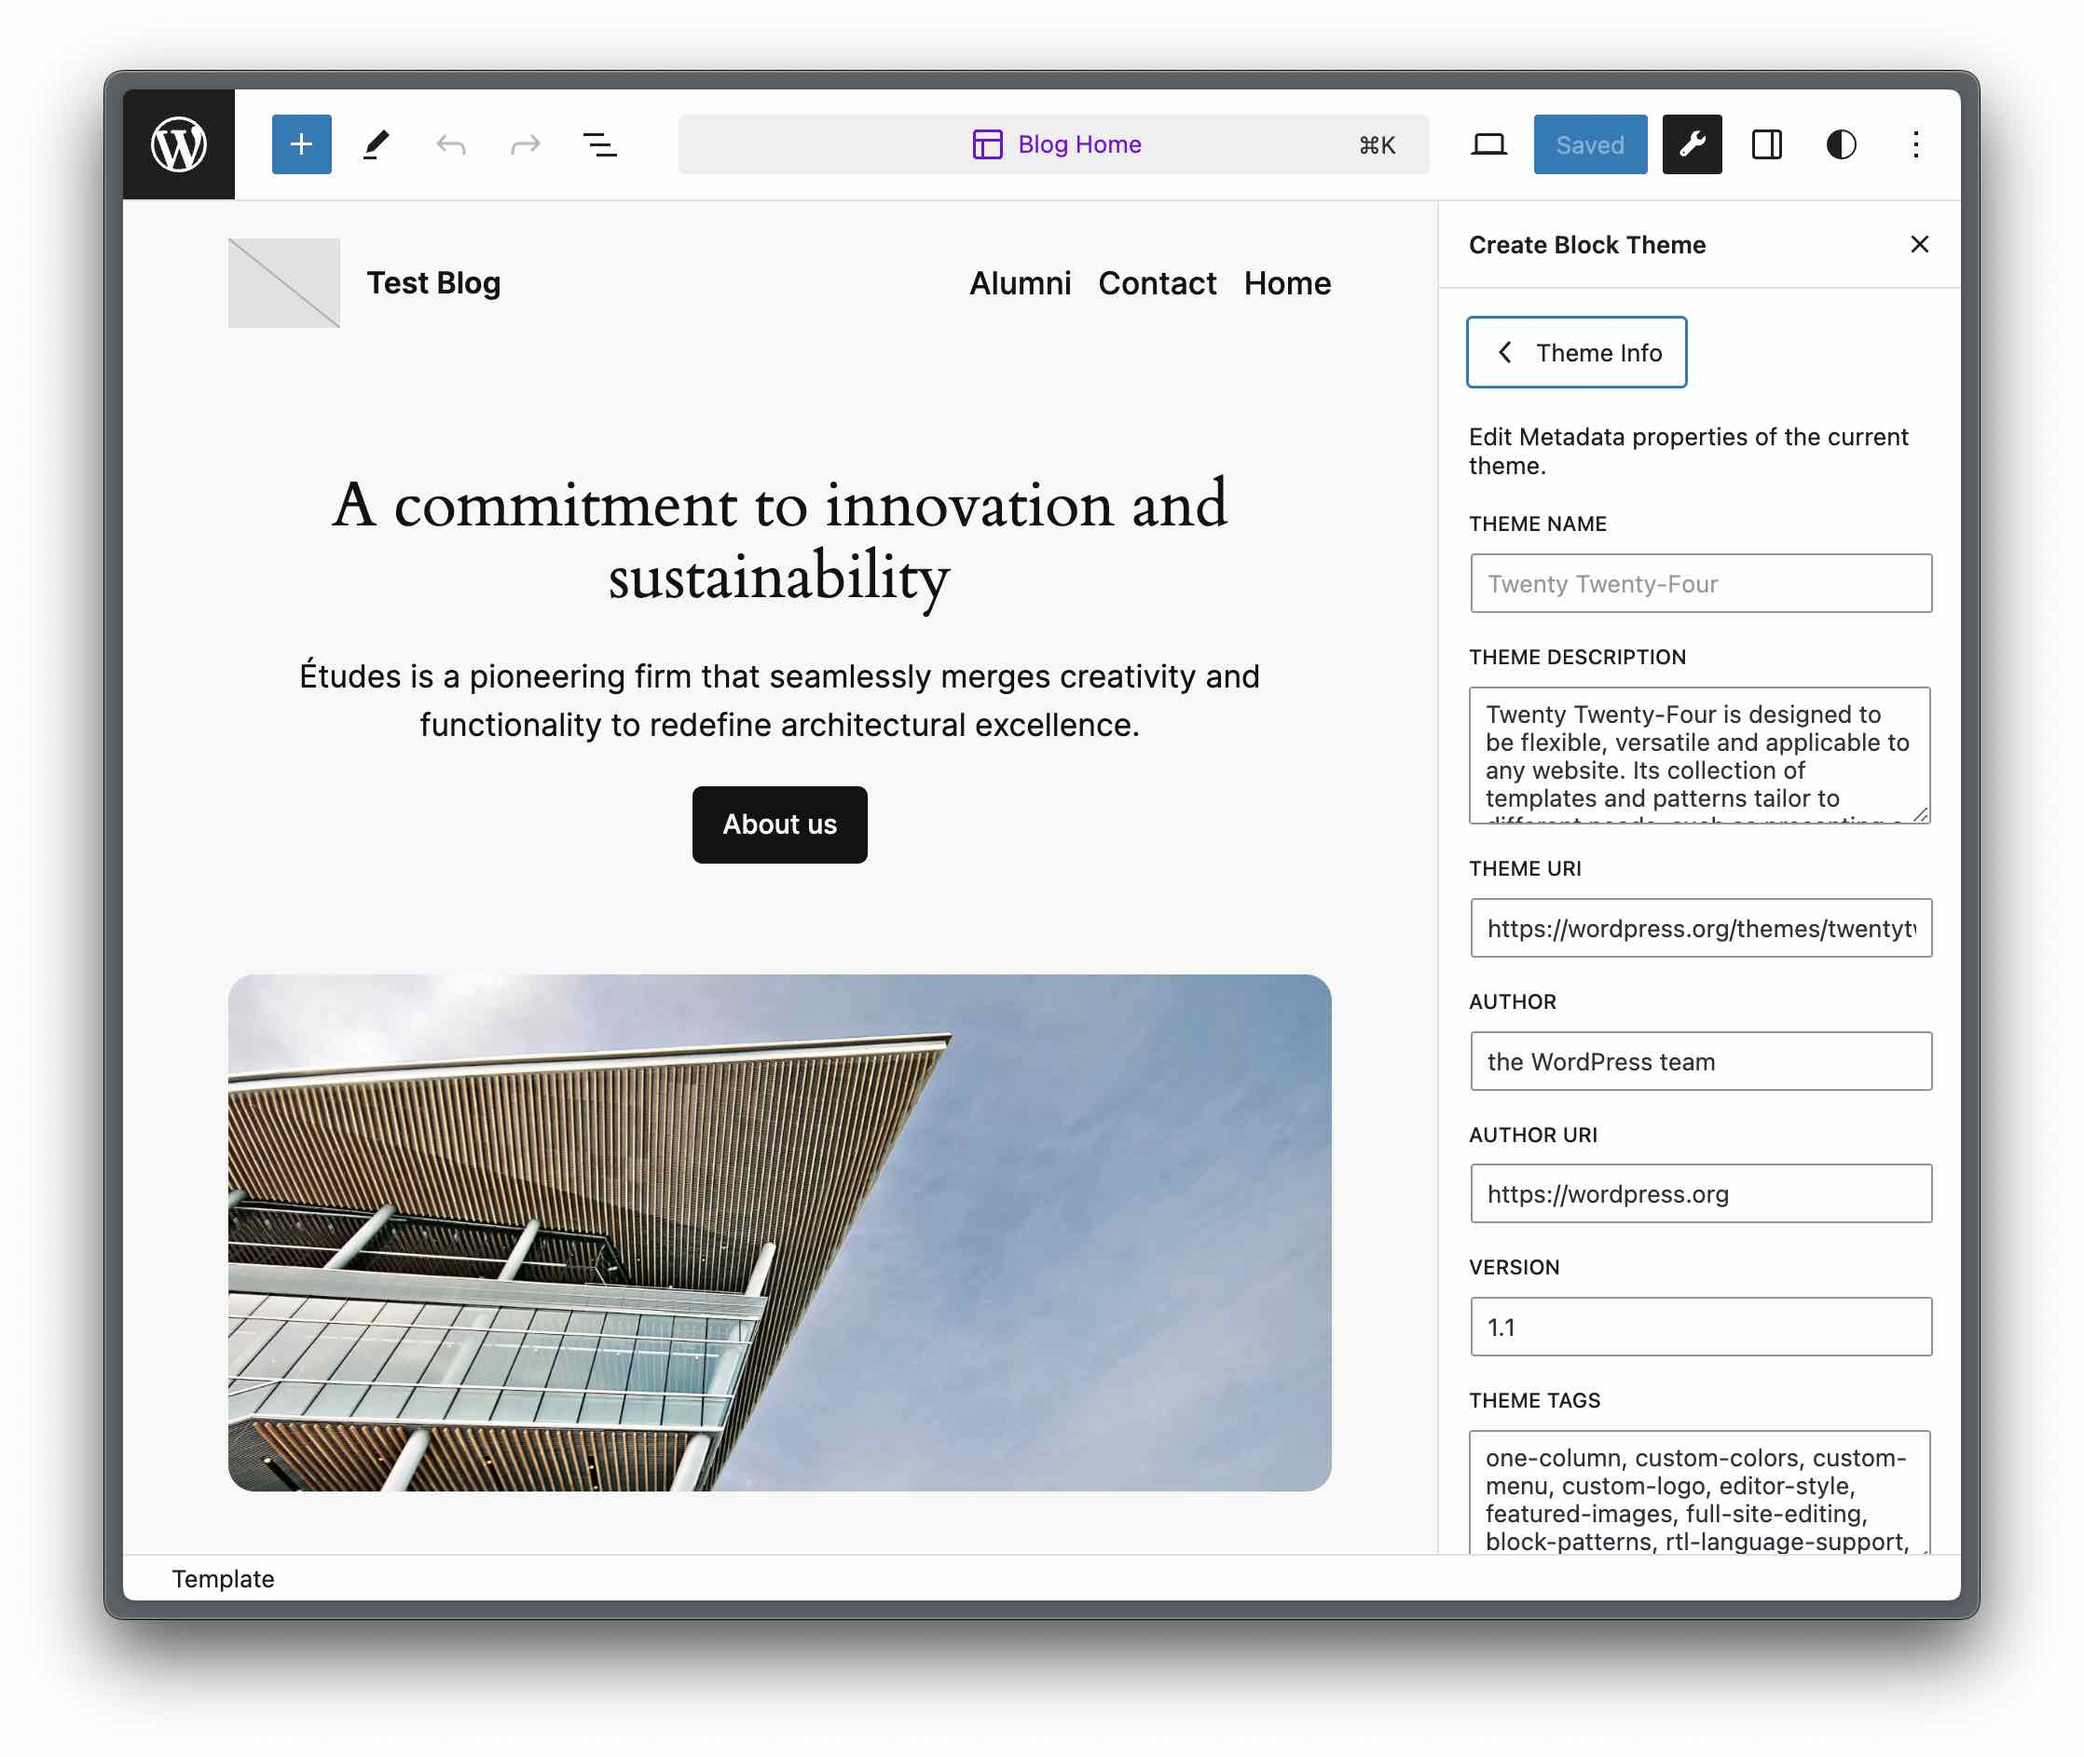
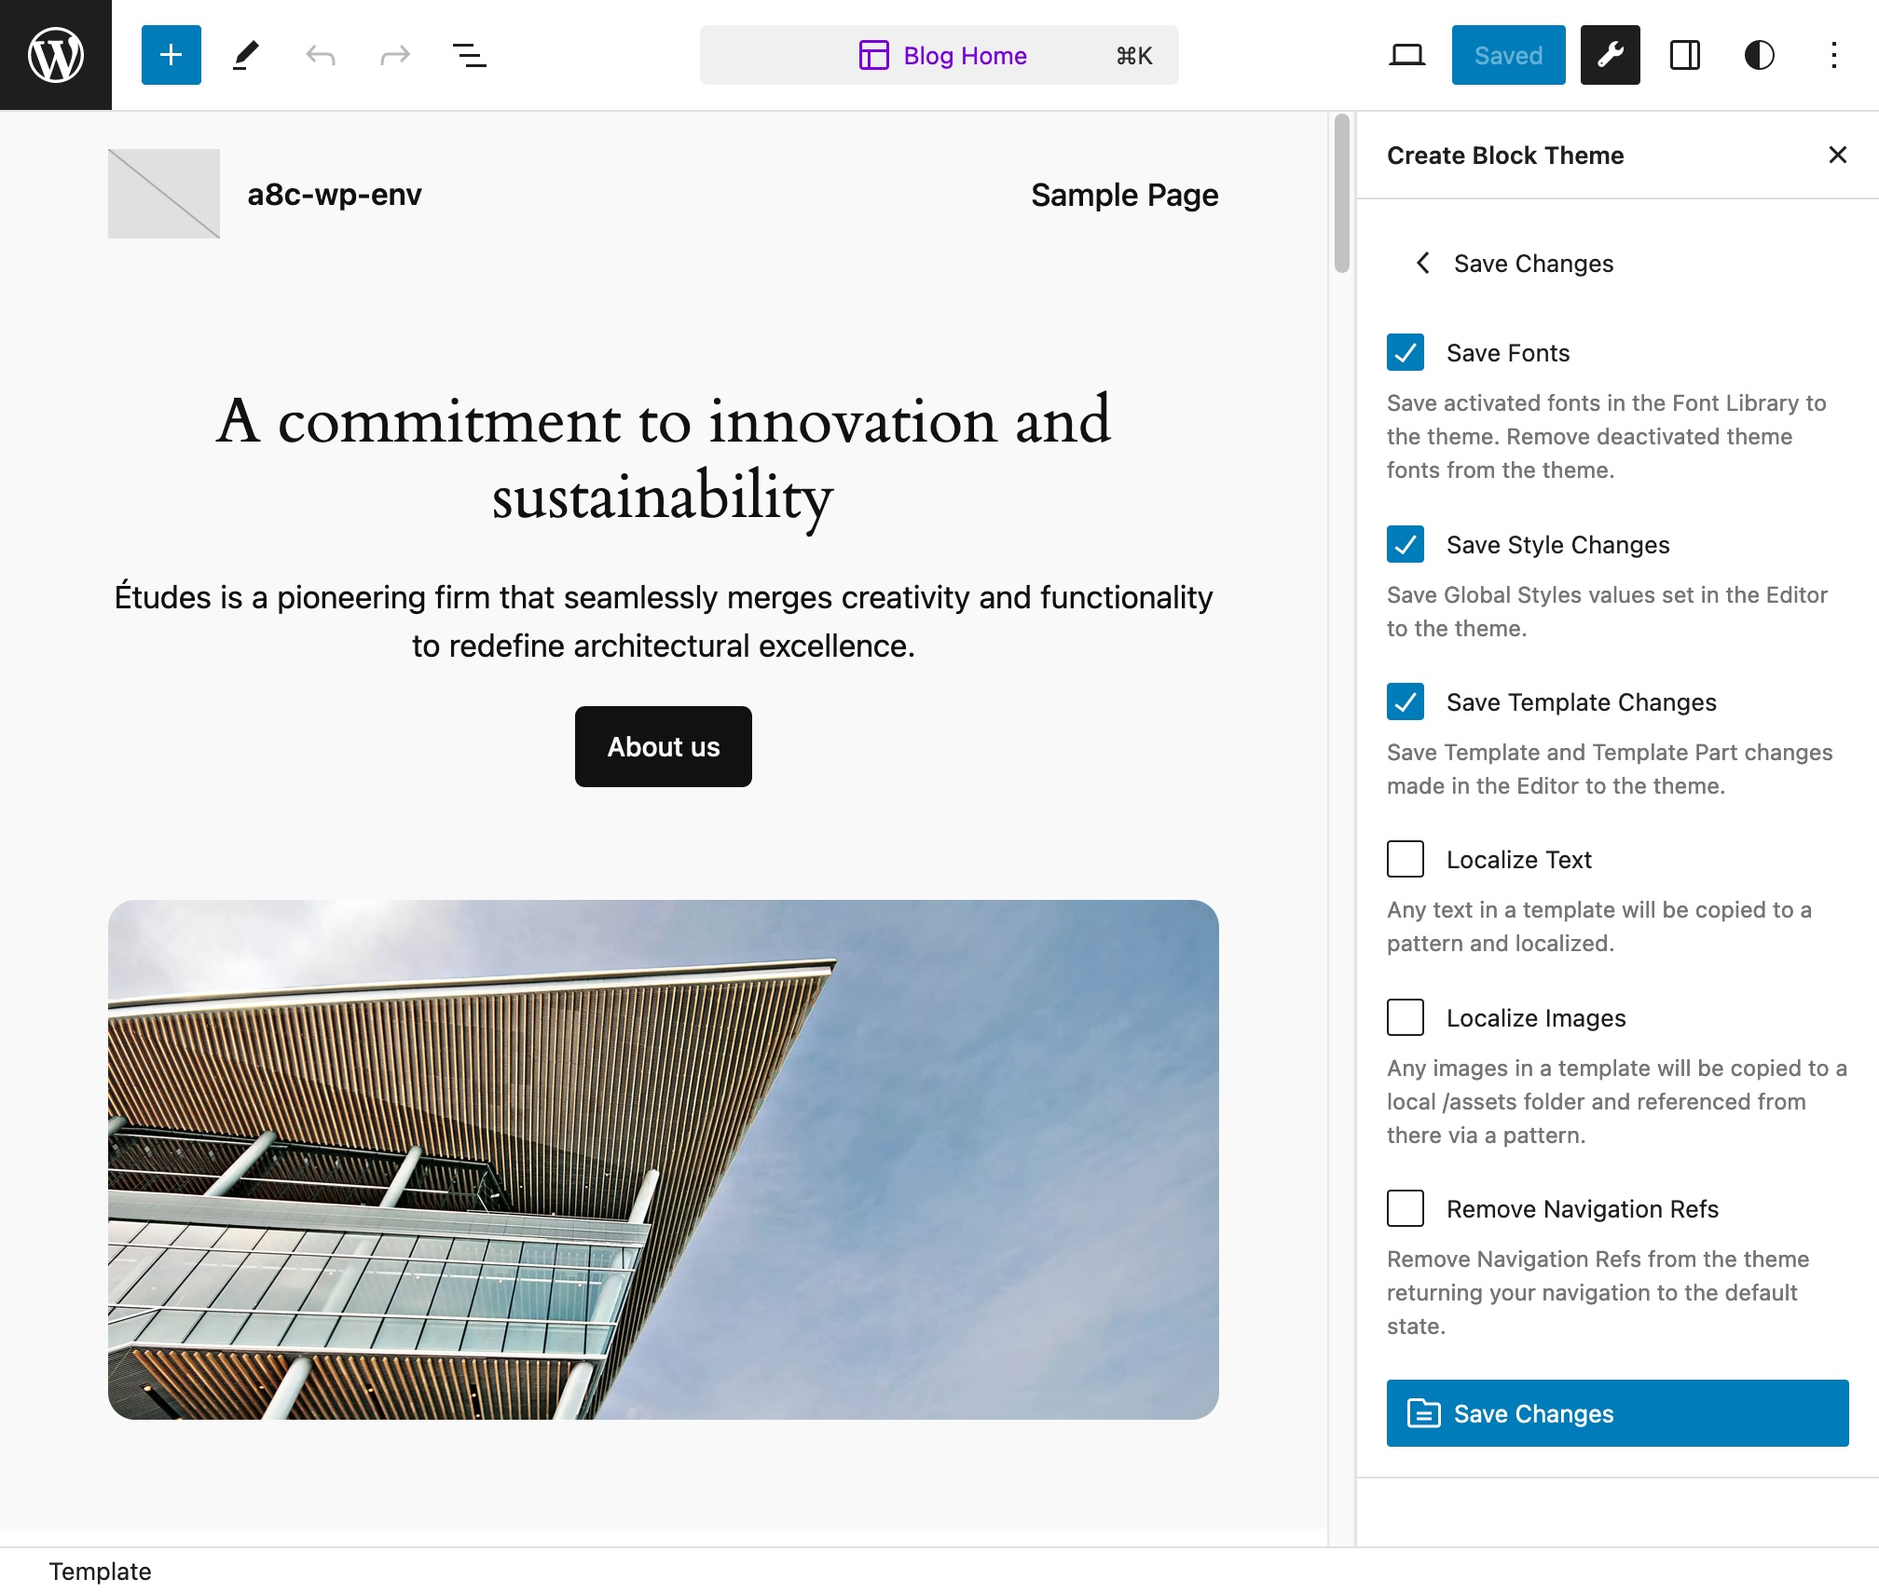
Update readme with changes from UI changes and updated screenshots (#571)
* Update readme with changes from UI changes and updated screenshots

diff --git a/README.md b/README.md
@@ -79,23 +79,47 @@ Make changes to your site styles, fonts and templates using the Editor.
 
 Still in the WordPress Editor, navigate to the Create Block Theme menu at the top of the Editor.
 
-To simply save recent changes made in the Editor to the currently active theme or export the theme:
+To save recent changes made in the Editor to the currently active theme or export the theme:
 
-- Select "Save Changes" to save any recent changes to the currently active theme.
-- Select "Export Zip" to export the theme as a zip file.
+- Select "Save Changes to Theme" and select any options to customize what is saved
+- Check "Save Fonts" to copy the assets for any fonts installed and activated through the Font Library to the active font
+- Check "Save Style Changes" to copy your style changes made to the theme.json file
+- Check "Save Template Changes" to copy template changes made in the Editor to your activated theme.
+- With "Save Template Changes you may also select the following:
+- Check "Localize Text" to copy content to patterns from templates so that they can be localized for internationalization.
+- Check "Localize Images" to copy any images referenced in templates to the theme asset folder and reference them from a pattern.
+- Check "Remove Navigation Refs" to remove any navigation ref IDs from templates.
+- Click "Save Changes" to save any recent changes to the currently active theme.
+
+To export your theme to a zip file ready to import into another system:
+
+- Select "Export Zip"
 
 To edit the theme metadata:
 
-- Select "Theme Info" to edit the metadata for the theme. These details will be used in the style.css file.
+- Select "Edit Theme Metadata" to edit the metadata for the theme. These details will be used in the style.css file.
 
-To create a new theme, child theme, or style variation, select "Create Theme" to access the following options for the currently active theme:
+To create a new blank theme:
 
-- "Clone Theme" to create a copy of the active theme.
-- "Create Child Theme" to create a child theme of the active theme.
-- "Create Theme Variation" to create a style variation.
-- "Export Theme" to export the theme as a zip file.
-- "Export Child Theme" to export a child of the currently active theme as a zip file.
-- "Create Blank Theme" to create a new, blank theme with no styles or templates.
+- Select "Create Blank Theme"
+- Supply a name for the new theme (and optional additional Metadata)
+- Click "Create Blank Theme"
+
+The theme will be created and activated.
+
+To create a variation:
+
+- Select "Create Theme Variation"
+- Provide a name for the new Variation
+- Click "Create Theme Variation"
+
+A new variation will be created.
+
+To create a new Clone of the current theme or to create a Child of the current theme:
+
+- Click "Create Theme"
+- Click "Clone Theme" to create a new Theme based on the active theme with your changes
+- Click "Create Child Theme" to create a new Child Theme with the active theme as a parent with your changes
 
 To inspect the active theme's theme.json contents:
 
